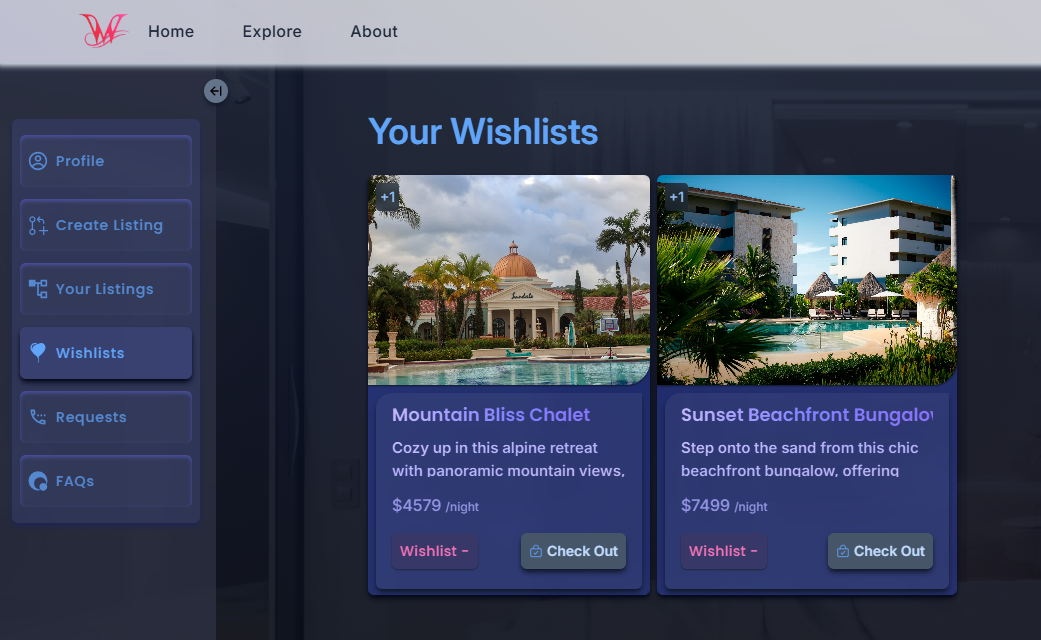
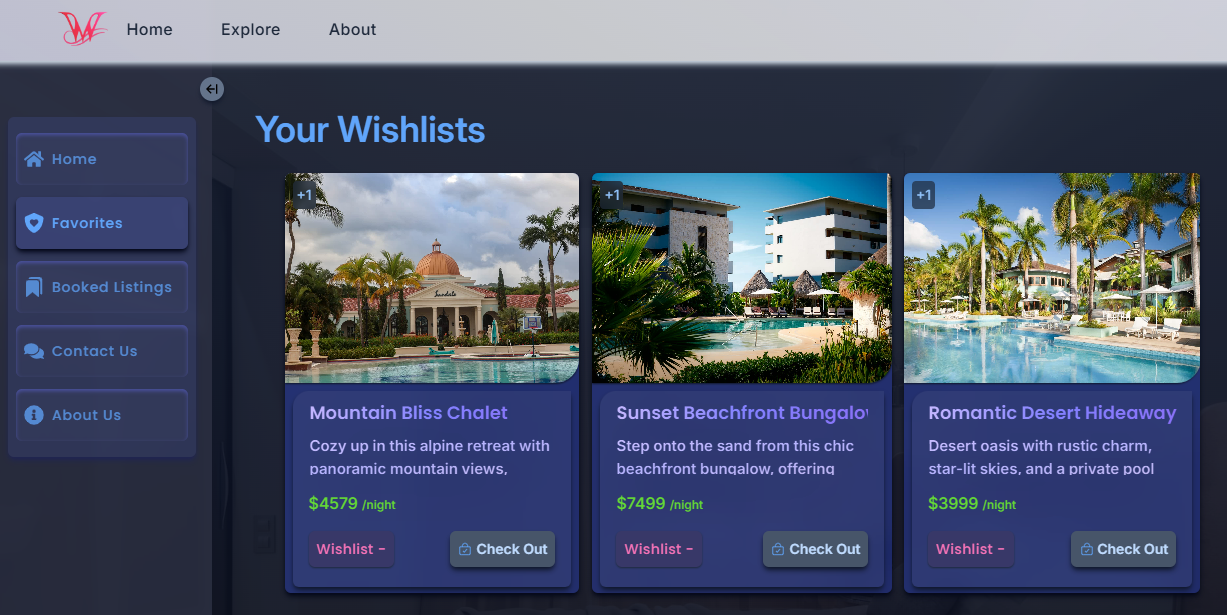
Update the readme and fixed some resposiveness

diff --git a/src/component/categoryPages/WishLists.jsx b/src/component/categoryPages/WishLists.jsx
@@ -84,12 +84,12 @@ const WishLists = () => {
   return (
     <div>
       <div className="w-full p-0 mx-auto my-24 md:p-4">
-        <h2 className="relative w-11/12 mx-auto mb-4 text-4xl font-semibold text-blue-400 md:w-10/12 xl:w-3/4">
+        <h2 className="relative w-11/12 mx-auto mb-4 text-4xl font-semibold text-blue-400 xl:w-4/5">
           Your Wishlists
         </h2>
         {/* <h2>Your Wishlists</h2> */}
         {listings.length > 0 ? (
-          <div className="relative grid w-11/12 h-full grid-cols-1 gap-4 py-2 mx-auto md:w-10/12 scroll-smooth place-items-center lg:grid-cols-3 sm:grid-cols-2 xl:grid-cols-4 xl:w-3/4 scrollbar-hide">
+          <div className="relative grid h-full grid-cols-1 gap-4 py-2 mx-auto scroll-smooth place-items-center lg:grid-cols-3 sm:grid-cols-2 xl:grid-cols-3 xl:w-3/4 scrollbar-hide">
             {listings.map((listing, index) => {
               const images = listing?.image || [];
               const firstImage = images[0]?.url;
@@ -151,7 +151,7 @@ const WishLists = () => {
                         : `${listing?.description}`}
                     </p>
                     <div className="flex flex-row items-center justify-between">
-                      <div className="flex flex-col my-1 overflow-hidden font-medium text-[#9796e6] gap-x-1">
+                      <div className="flex flex-col my-1 overflow-hidden font-medium text-[#65dd36] gap-x-1">
                         <span>
                           ${listing?.price}{" "}
                           <span className="text-xs">/night</span>

diff --git a/README.md b/README.md
@@ -24,6 +24,7 @@ The front end is built using ReactJS, offering dynamic and responsive interfaces
 
 ![Wanderlust](Images/viewlisting.png)
 ![Wanderlust](Images/booked.png)
+![Wanderlust](Images/wishlists.png)
 
 - **Homepage**: Showcases featured listings and categories for easy browsing.
 - **Listing Catalog**: Allows users to view and filter accommodations by category or popularity.
